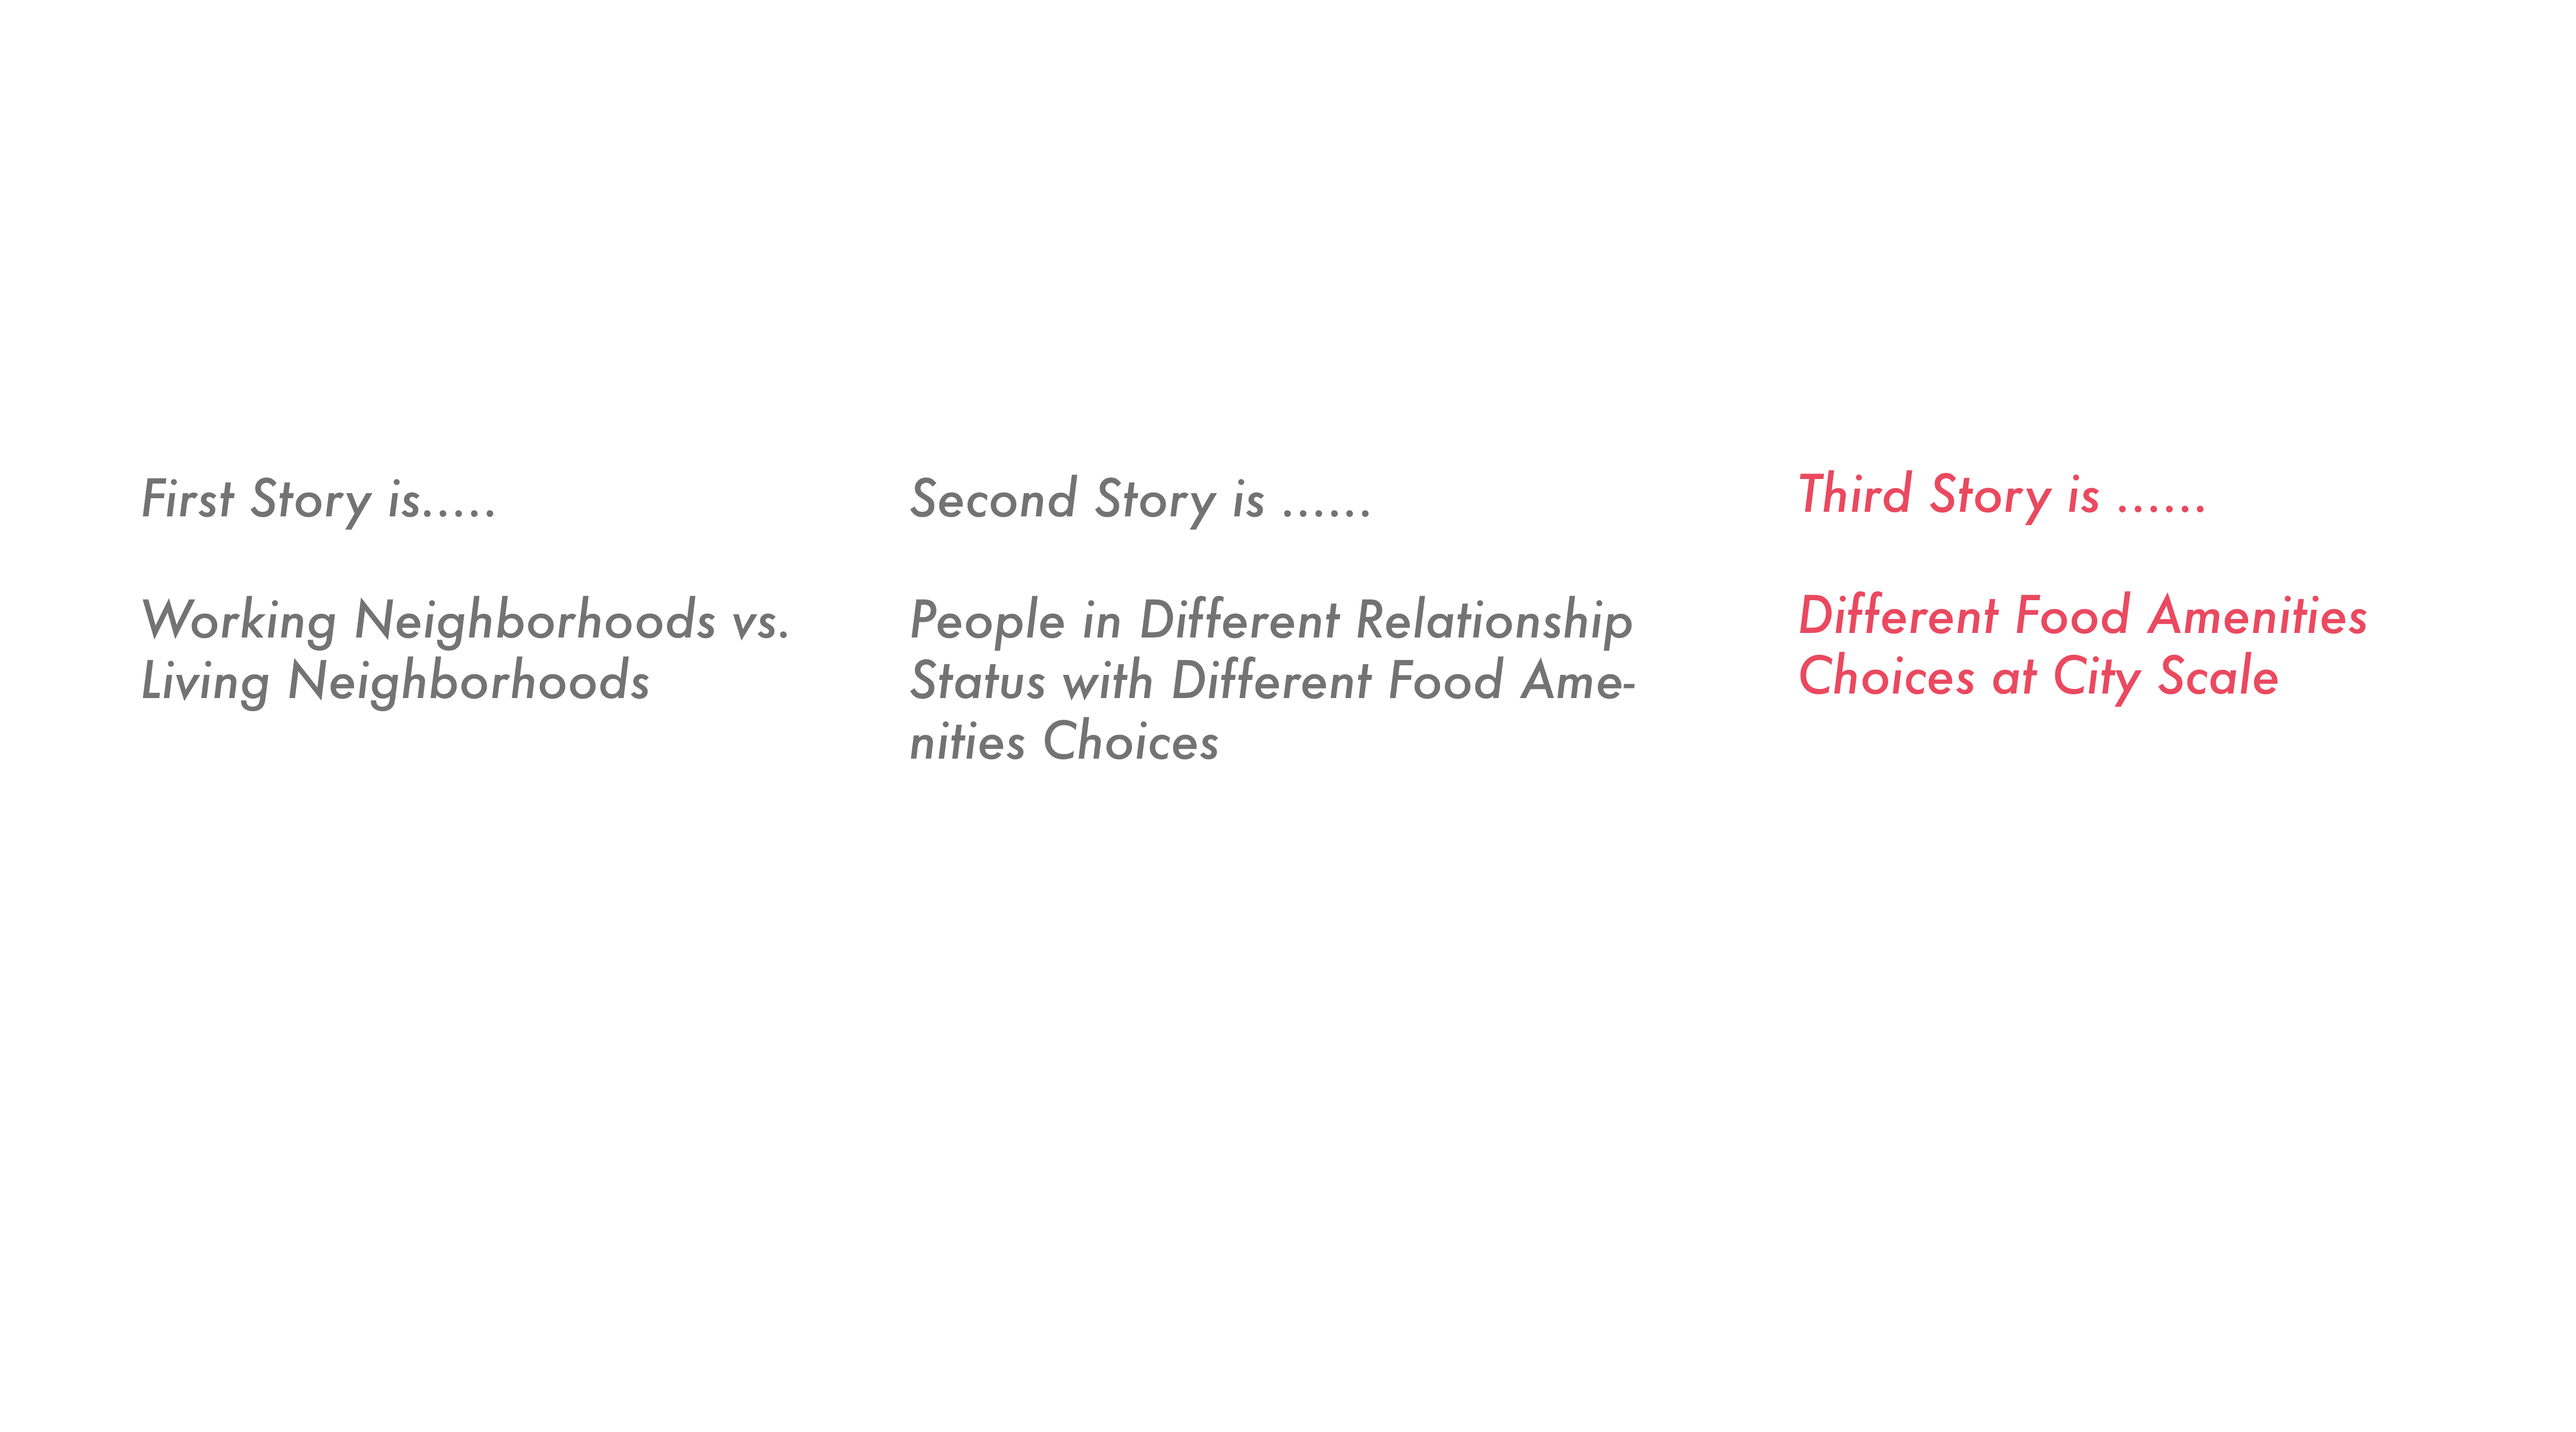
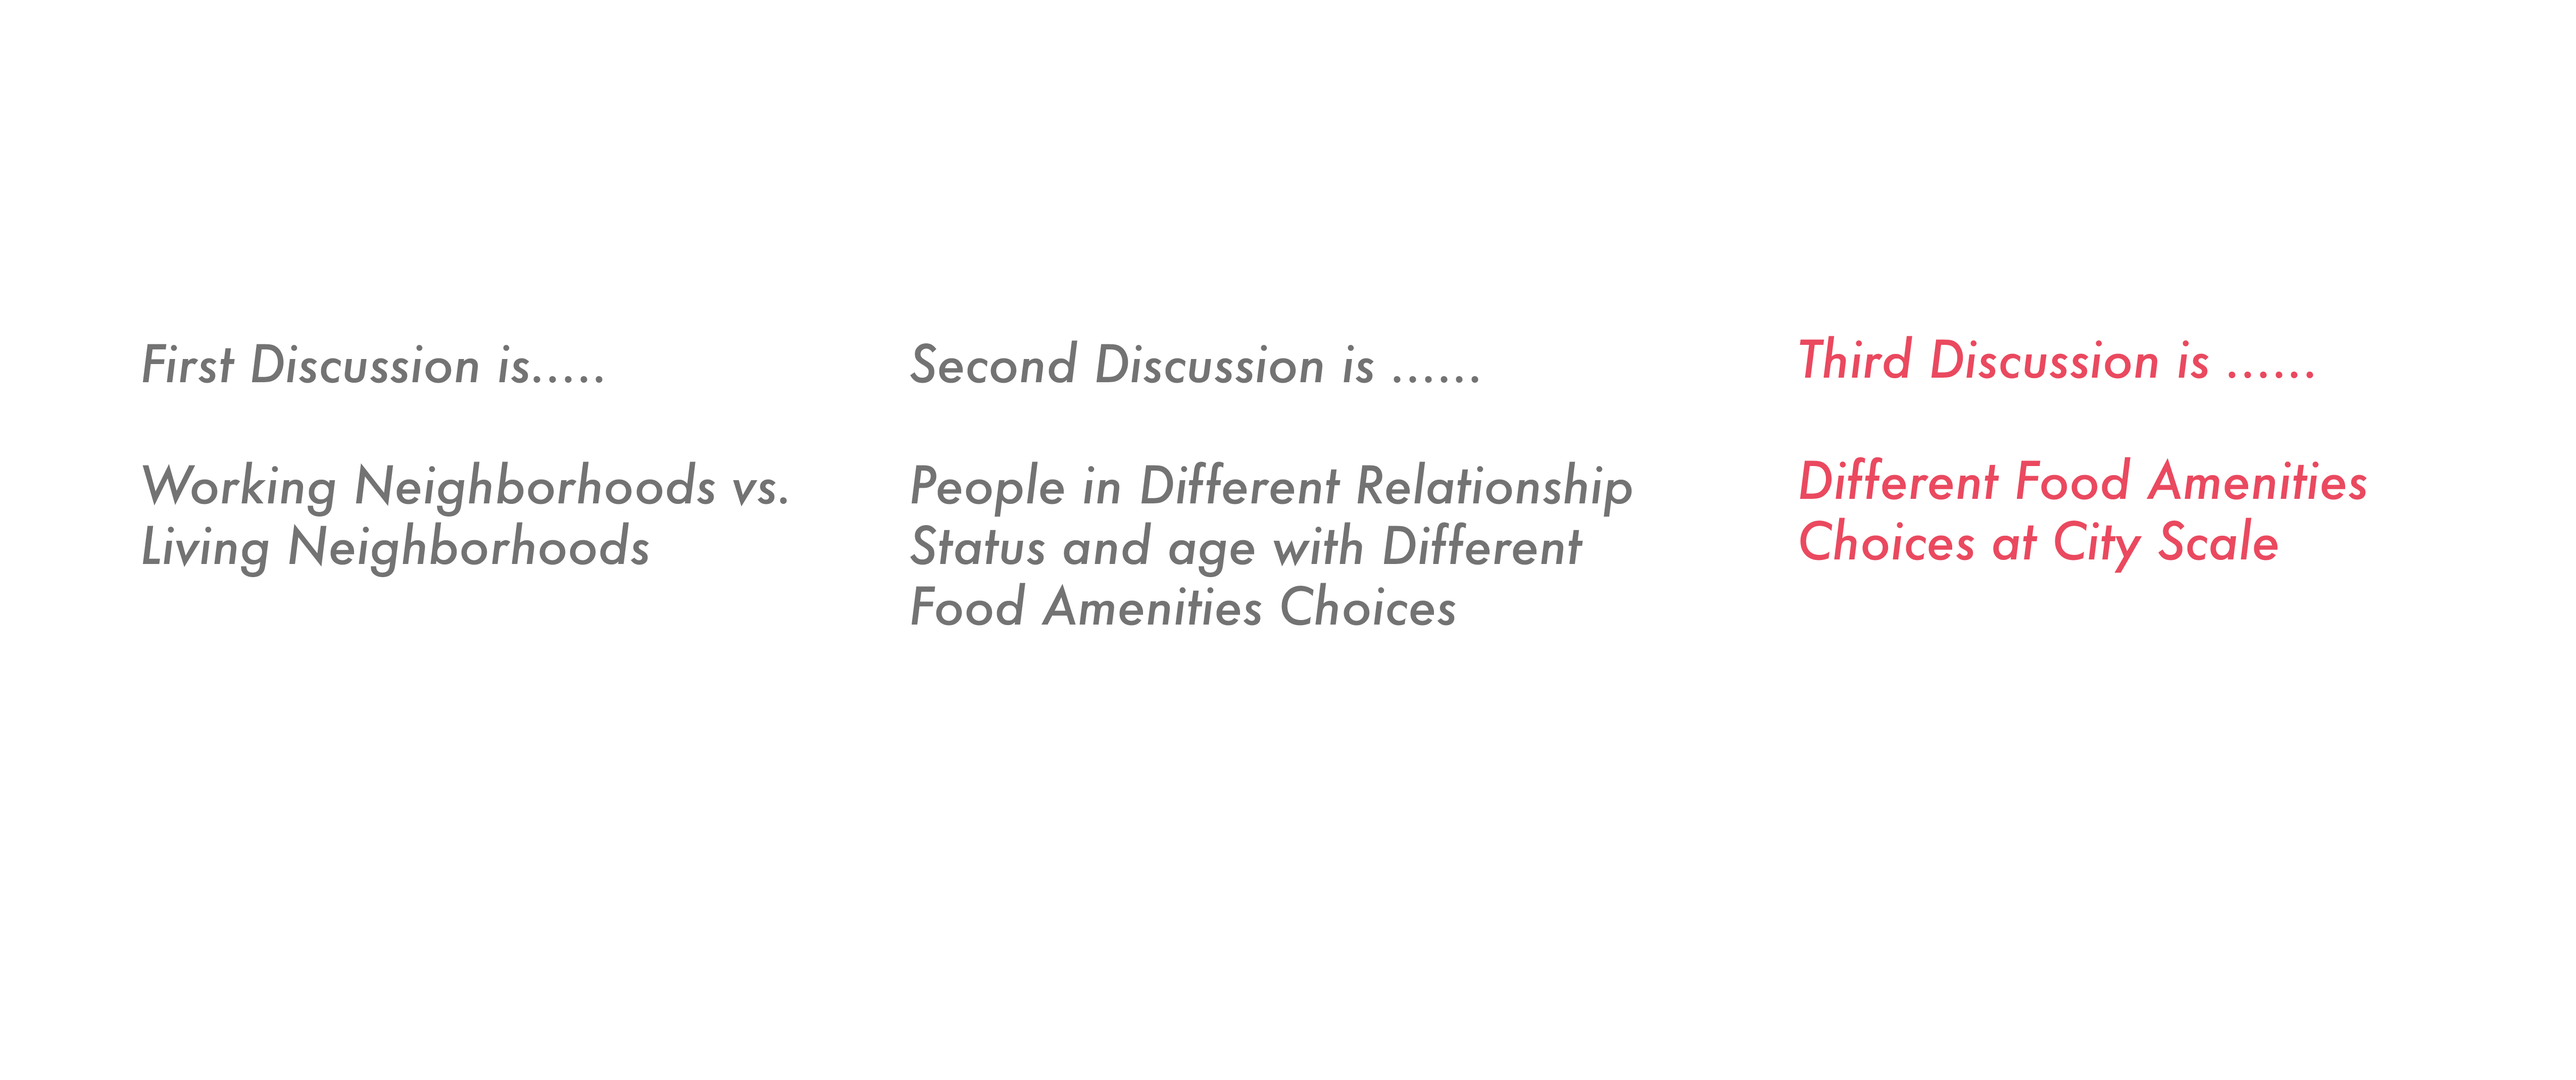
2

diff --git a/index.html b/index.html
@@ -44,7 +44,7 @@
                 <a class="nav-link" href="#Zoom into neighborhoods">Data Perspectives</a>
             </li>
             <li class="nav-item">
-                <a class="nav-link" href="#Insights">Three Approaches</a>
+                <a class="nav-link" href="#Insights">Three Discussions</a>
             </li>
         </ul>
 </nav>
@@ -173,7 +173,7 @@
                 <div class="col-md-2"></div>
                 <div class="col-md-8">
                         <div class="smallimage">
-                        <img class="img-responsive" src="assets/3 possible.png" >
+                        <img class="img-responsive" src="assets/3 possiblenew.png" >
                         </div>
                 </div>
                 <div class="col-md-2"></div>
@@ -332,15 +332,15 @@
         </div>
 
     <div class="row">
-        <div class="col-md-1">
-        </div>
-        <div class="col-md-10">  
+        <!-- <div class="col-md-1">
+        </div> -->
+        <div class="col-md-12">  
             <div class="smallimage">
                 <img class="img-responsive" src="assets/Three_Data_source.png" >
             </div>
        </div>
-       <div class="col-md-1">
-        </div>
+       <!-- <div class="col-md-1">
+        </div> -->
      </div>
     </div>
 
@@ -359,16 +359,17 @@
                     <div class="col-md-2">
                      </div>
              </div>
+
              <div class="row">
-                    <div class="col-md-1">
-                    </div>
-                    <div class="col-md-10">
+                    <!-- <div class="col-md-1">
+                    </div> -->
+                    <div class="col-md-12">
                             <div class="smallimage">
                             <img class="img-responsive" src="assets/Geospatialnew-01.png" >
                             </div>
                     </div>
-                    <div class="col-md-1">
-                    </div>
+                    <!-- <div class="col-md-1">
+                    </div> -->
                 </div>
             
             </div>
@@ -388,7 +389,9 @@
                     <div class="section-title-wrapper section-space--half">  
                             <h2 class="section-title">Online Questionnaire</h2>
                             
-                            <p class="text-left short-desc">
+                    
+                            <p class="short-desc" style="font-size: 11px; text-transform: uppercase;
+                            letter-spacing: 0.2em; ">
                                     <a href="https://qingyue.typeform.com/to/pxZduG?fbclid=IwAR1X4_jfBj2kS83t7yzJMdVKuHUjYUo3QhNNtiEZ3O_zTXJ7GZwZZpjbvrc">Link to the survey</a>
                                 
                                 </p>
@@ -398,15 +401,15 @@
                  </div>
          </div>
          <div class="row">
-                <div class="col-md-1">
-                </div>
-                <div class="col-md-10">
+                <!-- <div class="col-md-1">
+                </div> -->
+                <div class="col-md-12">
                         <div class="smallimage">
                         <img class="img-responsive" src="assets/Online Questinaire-01.png" >
                         </div>
                 </div>
-                <div class="col-md-1">
-                </div>
+                <!-- <div class="col-md-1">
+                </div> -->
             </div>
         
         </div>
@@ -423,7 +426,7 @@
             </div>                
         <div class="col-md-8">
             <div class="section-title-wrapper text-center section-space--half">  
-                        <h2 class="section-title">Three Approaches to Synthesizing and Visualizing Insights 
+                        <h2 class="section-title">Three Discussions to Synthesizing and Visualizing Insights 
                             from <br>online questionnaire and geospatial data
                         </h2>
             </div>
@@ -528,7 +531,7 @@
         </div>
 </div>
     
-         <div class="row">
+         <!-- <div class="row">
             <div class="col-md-2">
             </div>
             <div class="col-md-8">
@@ -539,7 +542,7 @@
             </div>
             <div class="col-md-2">
                 </div>
-            </div>
+            </div> -->
                 
  
                 
@@ -642,7 +645,7 @@
                <div class="col-md-8">
                    <div class="section-title-wrapper text-center section-space--half">  
                                <h2 class="section-title">
-                                       The third Story is about Public Transportation Enhance People’s Food-Related Lifestyle
+                                       The Third Story is about Public Transportation Enhance People’s Food-Related Lifestyle
                                </h2>
                    </div>
                </div>
@@ -671,7 +674,7 @@
                             Boston is one of the city in United States has a relatively well-developed public transportation system. 
                             In Boston, the subway is the most popular public transportation mode across all demographics.
                             <br>
-                            Thus, It may interesting to see how MBTA subway stations(represent of public transportation) 
+                            Thus, It maybe interesting to see how MBTA subway stations
                             enhance food related lifestyle: eat socially where food is the necessary focal point,eat socially where food is not necessary or the focal point, buy 
                             unprepared foods for cooking at home by what amounts of food amenities nearby.
                     </p>
@@ -765,7 +768,7 @@
                         <strong> 1. Collect, clean and integrate food-related data in Boston. </strong><br>
                         Lack of datasets is always the first problem when anybody studies Boston. Boston professionals in this field sometimes have to study NYC to test their method only because of insufficient data. In this thesis, I collected food-related amenities data using Google API, gathered residents' habits by questionaires, obtained geographical boundaries, MBTA data, open space data, and environmental audit data from open source.<br>
                         <strong>2. Develop a general method to study the coexistence and coevolution of space and people's habit.</strong><br>
-                        In this thesis, I explore the method to organically utilize both objective geo-space information and subjective personal information. Under this scheme, some interesting findings are obtained when I analyze my data cross different neighborhoods, age, marital status, and transportation. Related details are already well-demonstrated in the discussion above. I also wnat to point out that this method could be used much more universally than this case study; it could be applied to different cities focus on different topics besides food.<br>
+                        In this thesis, I explore the method to organically utilize both objective geo-space information and subjective personal information. Under this scheme, some interesting findings are obtained when I analyze my data cross different neighborhoods, age, marital status, and transportation. Related details are already well-demonstrated in the discussion above. I also want to point out that this method could be used much more universally than this case study; it could be applied to different cities focus on different topics besides food.<br>
                         <strong>3. Design delicate and informative graphics to help readers better observe the problems and further gain insights.</strong>
                         <br>
                         Information design part is crucial in my thesis, or the mixture of my data from all kinds of domains can easily confuse readers. I utilized map-based graphics, cluster chart graphics, cartoon-based graphics, etc. All these graphics were specifically designed to organizedly provide adequate information to the readers. This practice and experience can also be adopted to other projects.

diff --git a/js/main.js b/js/main.js
@@ -28,14 +28,14 @@ var myStyle = {
   // create popup contents
   var customPopup1 = "Back Bay<br/><img src='http://joshuafrazier.info/images/maptime.gif' alt='maptime logo gif' width='1200px'/>";
   
-  var customPopup2 = "Allston<br/><img src='http://joshuafrazier.info/images/maptime.gif' alt='maptime logo gif' width='1200px'/>";
+  var customPopup2 = "Allston<br/><img src='assets/o.jpg' alt='f'width='8000px'/>";
   var customPopup3 = "Boston College<br/><img src='http://joshuafrazier.info/images/maptime.gif' alt='maptime logo gif' width='1200px'/>";
   var customPopup4 = "Boston University<br/><img src='http://joshuafrazier.info/images/maptime.gif' alt='maptime logo gif' width='1200px'/>";
-  var customPopup5 = "Northeastern Univerisy<br/><img src='http://joshuafrazier.info/images/maptime.gif' alt='maptime logo gif' width='1200px'/>";
+  var customPopup5 = "Northeastern University<br/><img src='http://joshuafrazier.info/images/maptime.gif' alt='maptime logo gif' width='1200px'/>";
   // specify popup options 
   var customOptions =
       {
-      'maxWidth': '4000',
+      'maxWidth': '10000',
       'className' : 'custom'
       }
   
@@ -50,14 +50,6 @@ var myStyle = {
 
 
 
-// var PlaygroundIcon = L.icon({
-//   iconUrl: "images/playground_new.png",
-//   iconSize:     [25, 25], // size of the icon
-//   // shadowSize:   [50, 64], // size of the shadow
-//   iconAnchor:   [22, 94], // point of the icon which will correspond to marker's location
-//   shadowAnchor: [4, 62],  // the same for the shadow
-//   popupAnchor:  [-3, -76] // point from which the popup should open relative to the iconAnchor
-// });
 
  
  

diff --git a/css/style.css b/css/style.css
@@ -350,7 +350,7 @@ section {
  /* Always set the map height explicitly to define the size of the div
        * element that contains the map. */
        #map {
-        height: 625px;
+        height: 650px;
         width:100%;
         
 
